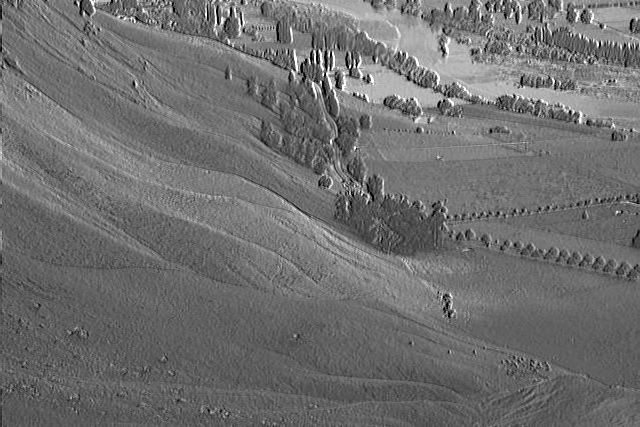
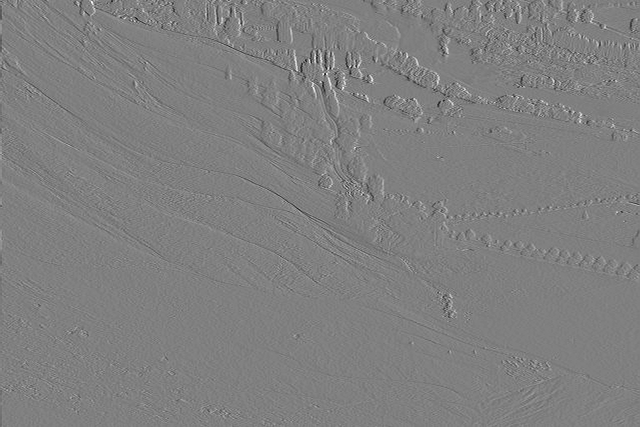
pr05 updated page and emboss filter

diff --git a/pr05/index.html b/pr05/index.html
@@ -200,24 +200,24 @@
                         <p>Original Image</p>
                     </td>
                     <td width="50%">
-                        <a class="fbox" href="gallery/emboss/emboss3_0.png" title="Embossed with 3x3 kernel, 0 degree">
-                        <img class="resimg" src="gallery/emboss/emboss3_0.png">
-                            </a>
-                        <p>Embossed with 3x3 kernel, 0 degree</p>
+                        <a class="fbox" href="gallery/emboss/emboss15_128.png" title="Embossed with 15x15 kernel, 128 degree">
+                            <img class="resimg" src="gallery/emboss/emboss15_128.png">
+                        </a>
+                        <p>Embossed with 15x15 kernel, 128 degree</p>
                     </td>
                 </tr>
                 <tr>
-                    <td>
-                        <a class="fbox" href="gallery/emboss/emboss5_0.png" title="Embossed with 5x5 kernel, 0 degree">
-                        <img class="resimg" src="gallery/emboss/emboss5_0.png">
-                            </a>
-                        <p>Embossed with 5x5 kernel, 0 degree</p>
+                    <td width="50%">
+                        <a class="fbox" href="jelly.jpg" title="Original Image">
+                            <img class="resimg" src="jelly.jpg">
+                        </a>
+                        <p>Original Image</p>
                     </td>
                     <td>
-                        <a class="fbox" href="gallery/emboss/emboss3_256.png" title="Embossed with 3x3 kernel, 256 degree">
-                        <img class="resimg" src="gallery/emboss/emboss3_256.png">
+                        <a class="fbox" href="gallery/emboss/emboss13_256.png" title="Embossed with 13x13 kernel, 256 degree">
+                        <img class="resimg" src="gallery/emboss/emboss13_256.png">
                             </a>
-                        <p>Blurred with 3x3 kernel, 256 degree</p>
+                        <p>Embossed with 15x15 kernel, 128 degree</p>
                     </td>
                 </tr>
             </table>

diff --git a/pr05/filter.js b/pr05/filter.js
@@ -149,7 +149,7 @@ Filter.emboss = function( size, degree ) {
     }
 
     if( size & 0x1 ) {
-        val[(size*size-1) / 2] = 0;
+        val[(size*size-1) / 2] = 0.0;
     }
 
     return new Filter({
